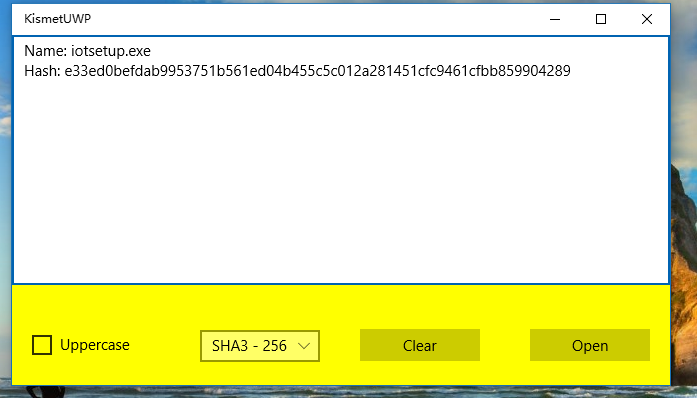
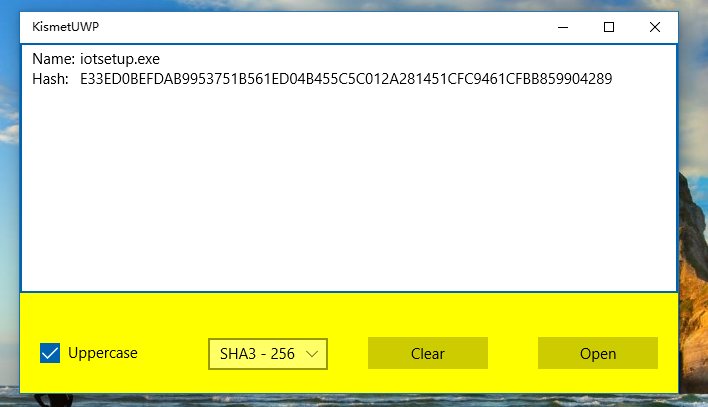
uppercase

diff --git a/KismetUWP/MainPage.xaml.cpp b/KismetUWP/MainPage.xaml.cpp
@@ -52,8 +52,15 @@ void KismetUWP::MainPage::ProcessAsync()
 {
 	if (buffer->Length == 0) {
 		filesum->Final(false);
-		std::wstring message(L"Name: ");
-		message.append(currentFile).append(L"\r\nHash: ").append(filesum->Hash());
+		std::wstring message(L"Name:\t");
+		if (casecheck->IsChecked) {
+			std::wstring hash=filesum->Hash();
+			std::transform(hash.begin(), hash.end(), hash.begin(), toupper);
+			message.append(currentFile).append(L"\r\nHash:\t").append(hash);
+		}
+		else {
+			message.append(currentFile).append(L"\r\nHash:\t").append(filesum->Hash());
+		}
 		filesum.reset(); /// clear self
 		hashsumcontent->Text=ref new String(message.data());
 	}else {
